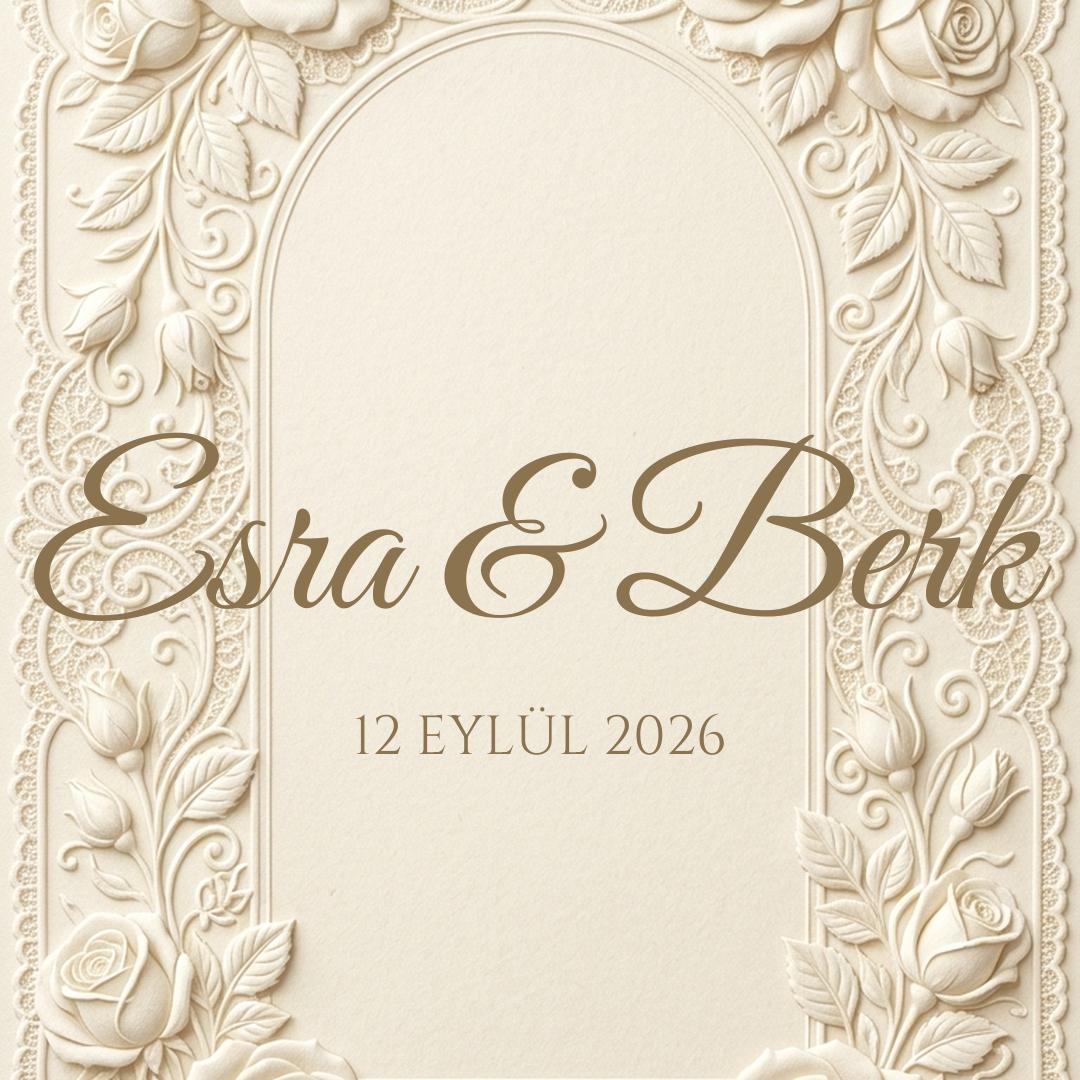
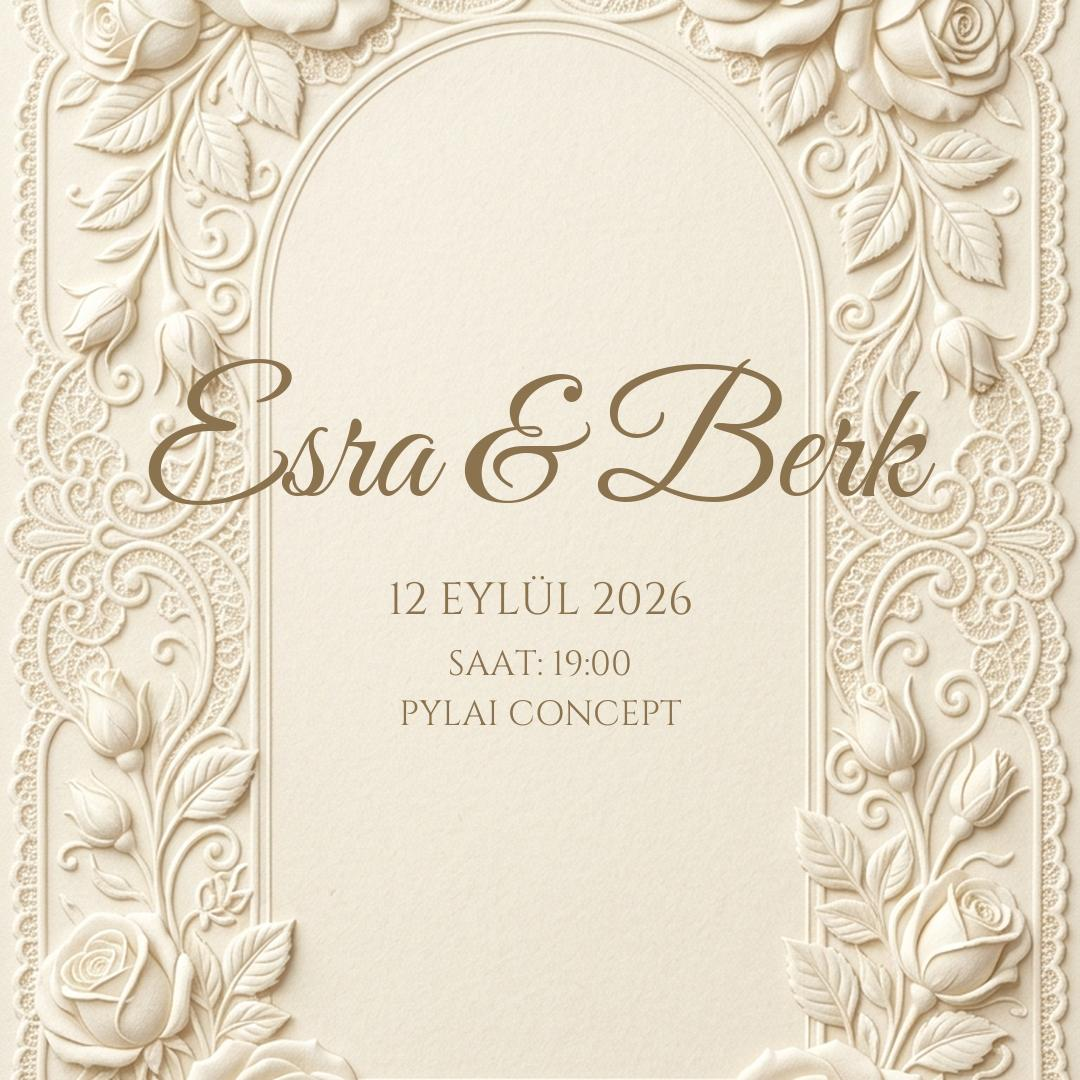
continuity

diff --git a/make_og.py b/make_og.py
@@ -37,12 +37,15 @@ def create_og_image():
     gold_dark = (140, 115, 80)
     
     # Fonts
-    font_names = ImageFont.truetype("GreatVibes.ttf", 220)
-    font_date = ImageFont.truetype("Cinzel.ttf", 55)
+    font_names = ImageFont.truetype("GreatVibes.ttf", 170)
+    font_date = ImageFont.truetype("Cinzel.ttf", 45)
+    font_small = ImageFont.truetype("Cinzel.ttf", 35)
     
     # Texts
     text_names = "Esra & Berk"
     text_date = "12 EYLÜL 2026"
+    text_time = "SAAT: 19:00"
+    text_venue = "PYLAI CONCEPT"
     
     def draw_centered_text(text, font, y_pos, color, spacing=0):
         bbox = draw.textbbox((0, 0), text, font=font)
@@ -51,9 +54,11 @@ def create_og_image():
         draw.text((x_pos, y_pos), text, font=font, fill=color)
 
     print("Drawing text...")
-    # Place text roughly in the center
-    draw_centered_text(text_names, font_names, 420, gold_dark)
-    draw_centered_text(text_date, font_date, 700, gold_dark)
+    # Place text perfectly inside the arch
+    draw_centered_text(text_names, font_names, 350, gold_dark)
+    draw_centered_text(text_date, font_date, 570, gold_dark)
+    draw_centered_text(text_time, font_small, 640, gold_dark)
+    draw_centered_text(text_venue, font_small, 690, gold_dark)
     
     print("Saving optimized image...")
     # Save optimized for WhatsApp (< 300KB)
